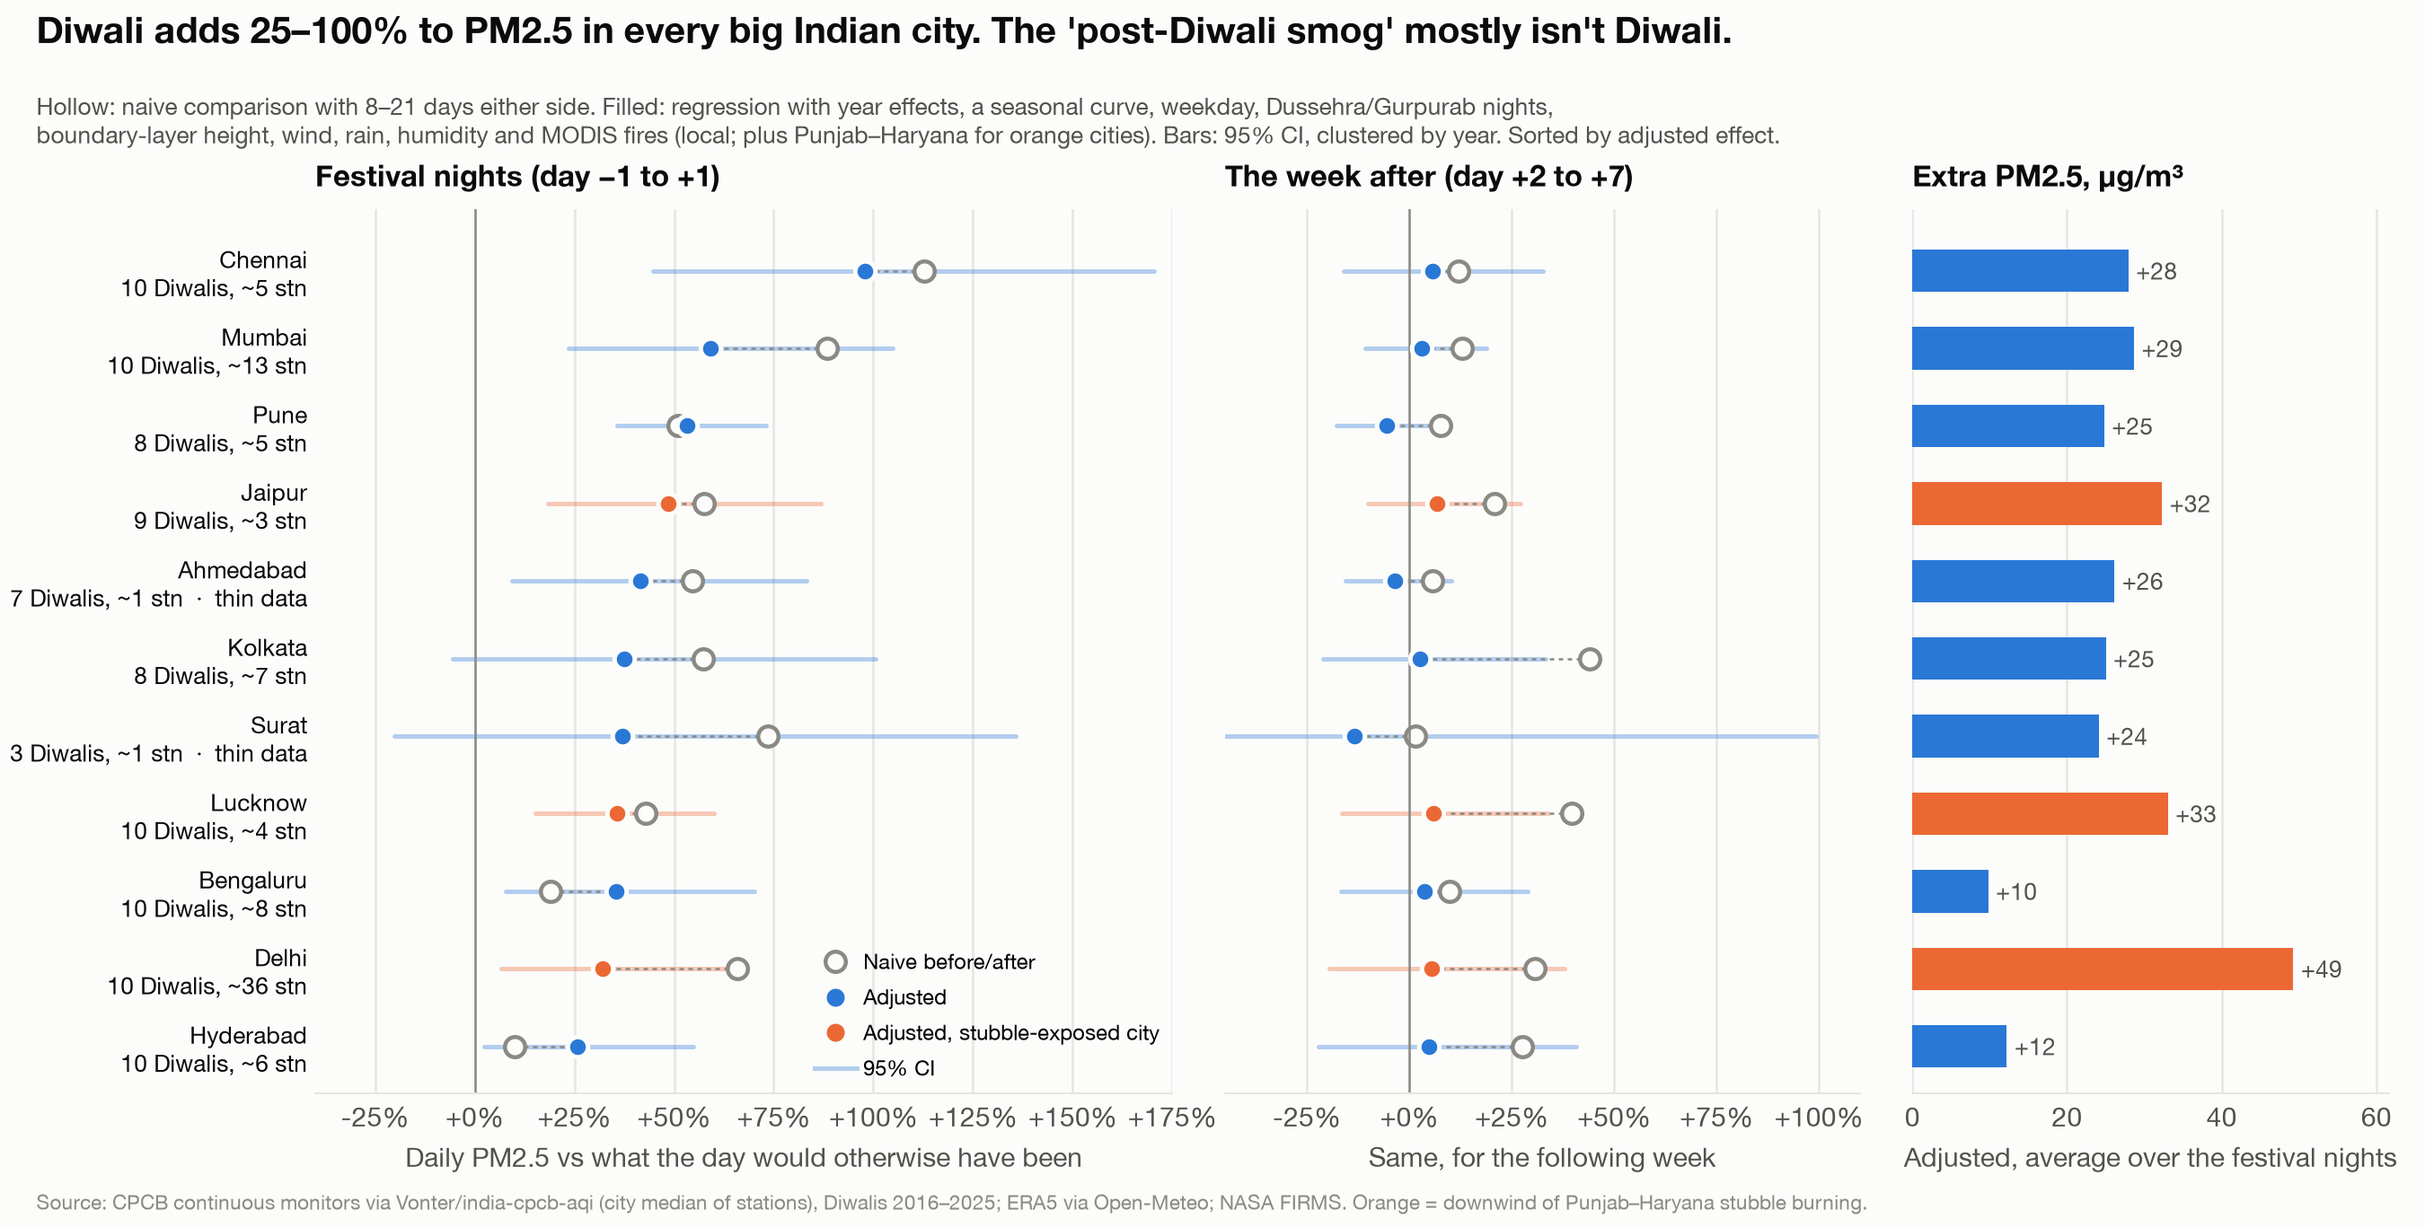
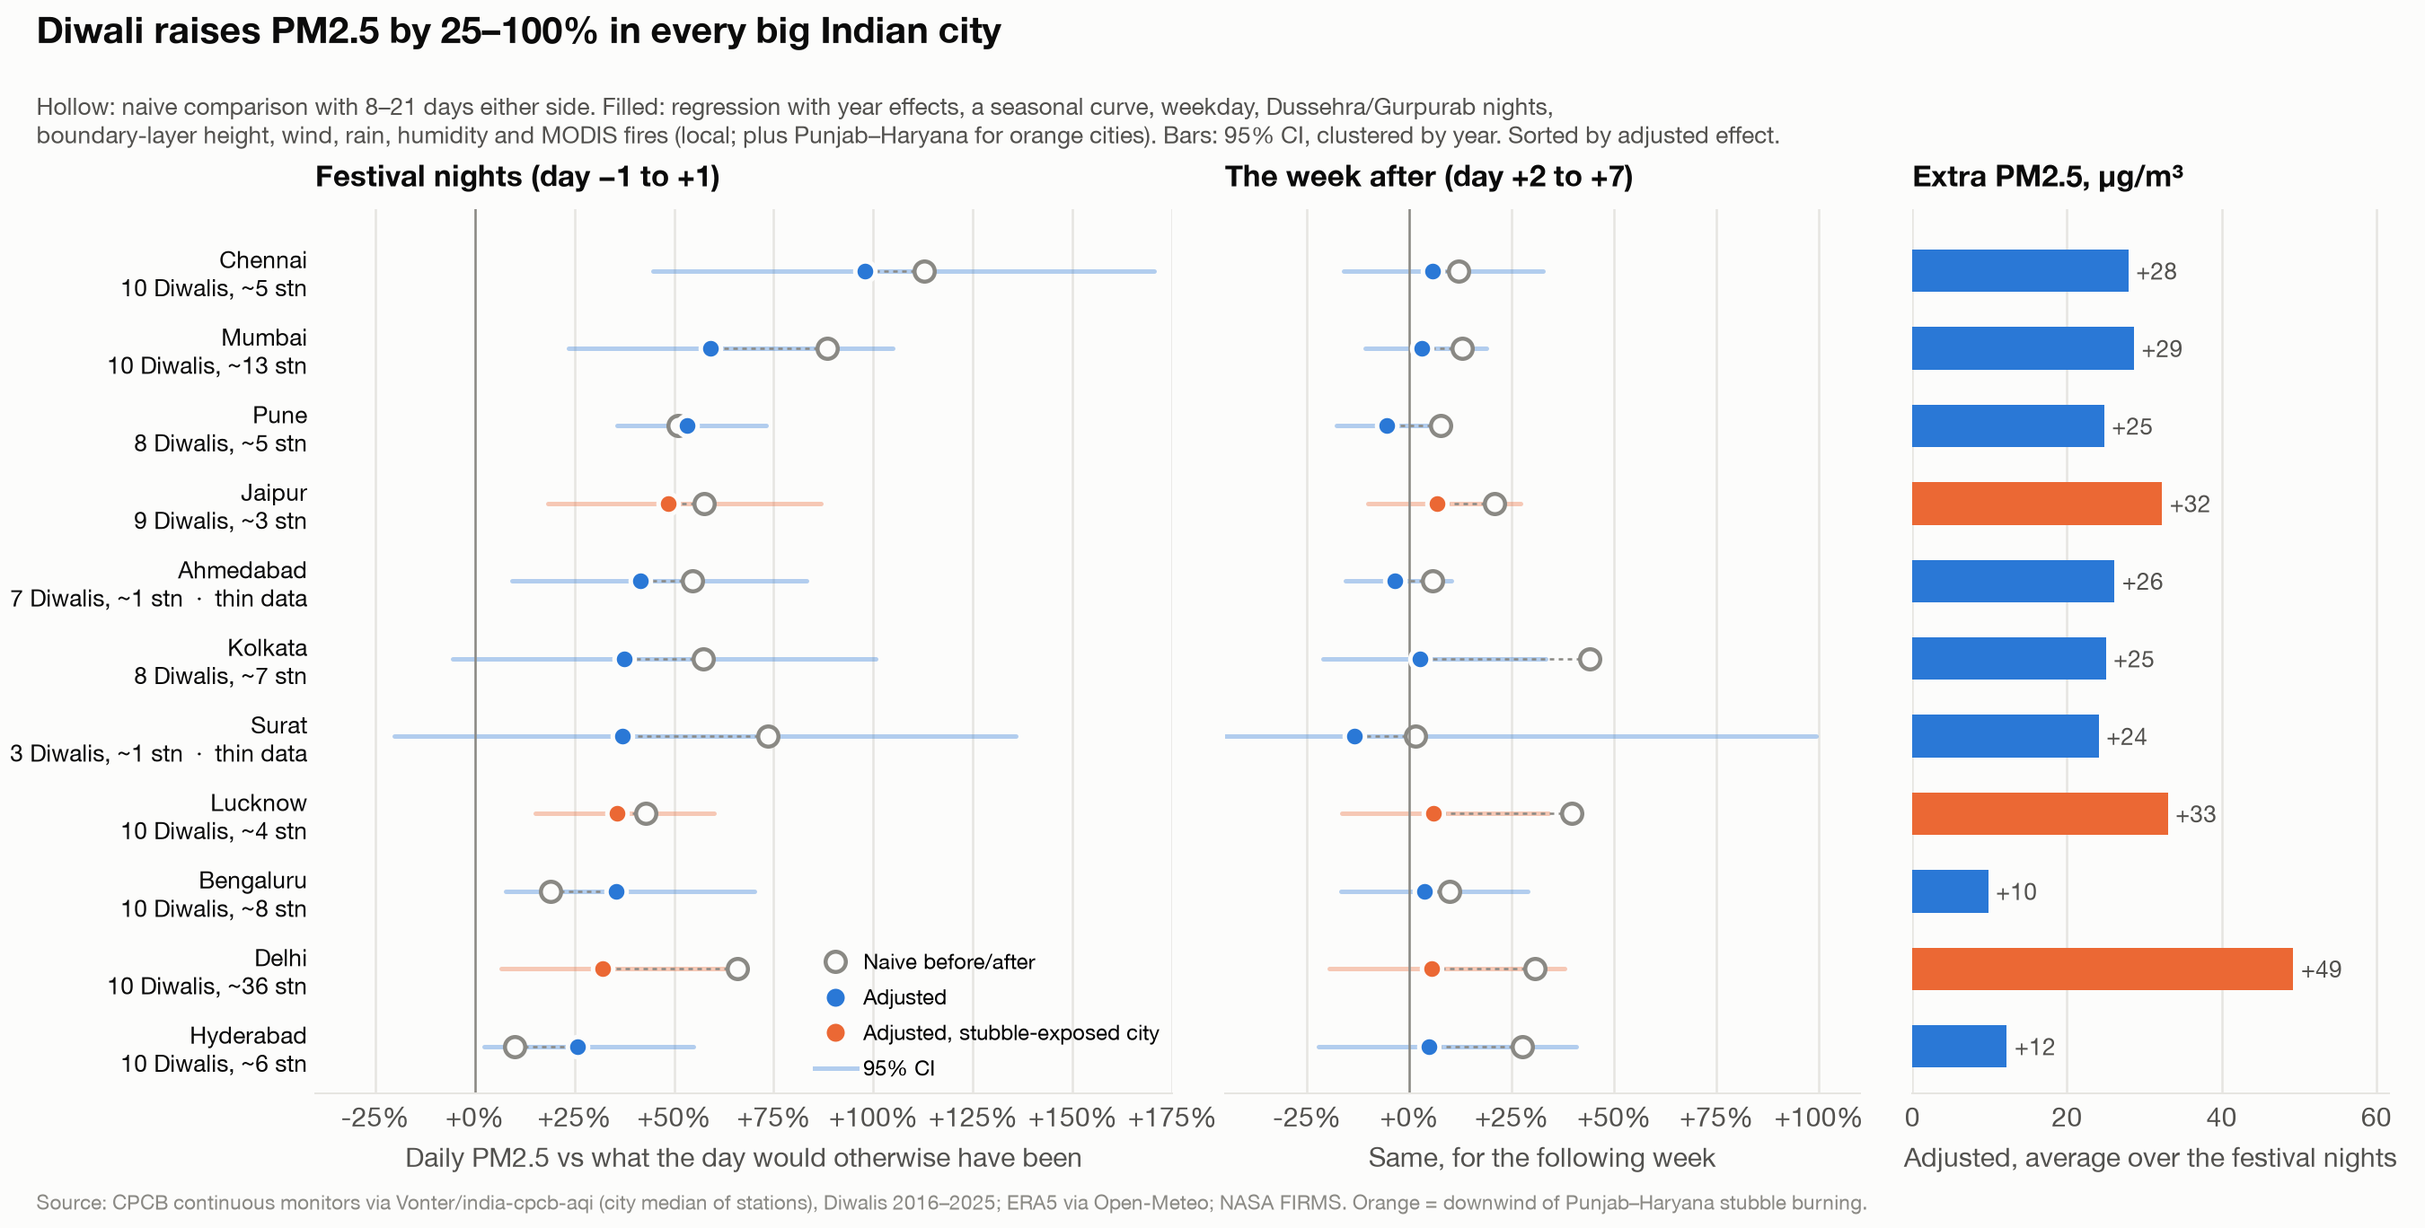
One-point titles; add night-sky version of the headline chart
Claude-Session: https://claude.ai/code/session_01TnczmvyPoPs5tCN1bH2r55

Changed region(s): [[0.0622, 0.0, 0.7156, 0.0614]]

diff --git a/chart_week.py b/chart_week.py
@@ -2,13 +2,16 @@
 
 Left: hourly PM2.5 ÷ normal, Day -3 to Day +4, median of the ten cities (bold) over each city (faint).
 Right: each city's festival-nights effect, adjusted for season, weather and crop fires.
-Palette and type follow dogl.uk (snow / night ink / Himalayan blue / sunset; Young Serif + Instrument Sans).
+Palette and type follow dogl.uk (Young Serif + Instrument Sans). Two themes:
+  snow  -> charts/diwali_week.png        (light: snow / night ink / Himalayan blue / sunset)
+  night -> charts/diwali_week_night.png  (dark: dogl.uk night tokens, glowing sunset line)
+Colours validated with the dataviz palette checker for each surface.
 """
+import matplotlib.patheffects as pe
 import matplotlib.pyplot as plt
 import numpy as np
 import pandas as pd
 from matplotlib import font_manager as fm
-from matplotlib.patches import FancyBboxPatch
 
 from config import CHARTS, DATA, ROOT
 
@@ -20,116 +23,125 @@ for f in FONTS.glob("*.ttf"):
     fm.fontManager.addfont(str(f))
 plt.rcParams.update({"font.family": "Instrument Sans", "font.size": 14})
 
-BG, INK, MUTED, LINE = "#F6F9FC", "#12233B", "#5A6B83", "#DCE5F0"
-BLUE, BLUE_SOFT, CITY = "#2F5E9E", "#E6EEF8", "#C2D3EA"
-SUNSET, SUNSET_DEEP, GOLD = "#F08A4B", "#D9622B", "#E9B45E"
+THEMES = {
+    "snow": dict(out="diwali_week.png", bg="#F6F9FC", ink="#12233B", muted="#5A6B83", grid="#DCE5F0",
+                 city="#C2D3EA", bar="#2F5E9E", line="#D9622B", fill="#F08A4B", fill_a=0.22, big="#D9622B",
+                 band="#E9B45E", band_a=(0.14, 0.30), band_ink="#8A5B12", mark="#2F5E9E", glow=False),
+    "night": dict(out="diwali_week_night.png", bg="#111F38", ink="#E9F0F9", muted="#A3B5CE", grid="#1F3354",
+                  city="#36588A", bar="#5A8ACB", line="#DC6E2E", fill="#F4A06A", fill_a=0.16, big="#F4A06A",
+                  band="#F4A06A", band_a=(0.06, 0.12), band_ink="#F0CD8C", mark="#A9C8EE", glow=True),
+}
 
 TEN = ["Delhi", "Mumbai", "Kolkata", "Bengaluru", "Chennai", "Hyderabad", "Ahmedabad", "Pune", "Surat", "Jaipur"]
-hc = pd.read_csv(DATA / "tempo_hourly.csv", index_col="t")
-hc = hc.loc[-72:119]
+hc = pd.read_csv(DATA / "tempo_hourly.csv", index_col="t").loc[-72:119]
 S = pd.read_csv(DATA / "summary.csv").set_index("city").loc[TEN].sort_values("adj_fw_pct")
-
-fig = plt.figure(figsize=(16, 9), facecolor=BG)
-ax = fig.add_axes([0.055, 0.15, 0.6, 0.62], facecolor=BG)
-bx = fig.add_axes([0.745, 0.15, 0.225, 0.62], facecolor=BG)
+daily = pd.read_csv(DATA / "tempo_daily.csv", index_col="day")["all"]
+m = hc["all_smooth"]
 YMAX = 6.2
 
-# festival nights (18:00-06:00): day before, Diwali, day after
-for d, lab in [(-1, "Day before"), (0, "Diwali night"), (1, "Night after")]:
-    x0, x1 = 24 * d + 18, 24 * d + 30
-    ax.axvspan(x0, x1, color=GOLD, alpha=0.30 if d == 0 else 0.14, lw=0, zorder=0)
-    ax.text((x0 + x1) / 2, YMAX - 0.12, lab, ha="center", va="top", fontproperties=SANS_B if d == 0 else SANS,
-            fontsize=12.5, color="#8A5B12")
-for x in range(-72, 121, 24):
-    ax.axvline(x, color=LINE, lw=1, zorder=0)
 
-# each city, faint; clip the two that go off the chart and say so
-for c in TEN:
-    s = hc[c].rolling(3, center=True, min_periods=1).mean()
-    ax.plot(s.index, s.clip(upper=YMAX + 1), color=CITY, lw=1.3, zorder=1, solid_capstyle="round")
-    if s.max() > YMAX:
-        tpk = s.idxmax()
-        ax.annotate(f"{c} {s.max():.0f}×", (tpk, YMAX - 0.55), xytext=(9 if c == "Chennai" else -9, 0),
-                    textcoords="offset points", ha="left" if c == "Chennai" else "right", va="center",
-                    fontsize=11.5, color=MUTED, fontproperties=SANS)
+def render(T):
+    fig = plt.figure(figsize=(16, 9), facecolor=T["bg"])
+    ax = fig.add_axes([0.055, 0.15, 0.6, 0.62], facecolor=T["bg"])
+    bx = fig.add_axes([0.745, 0.15, 0.225, 0.62], facecolor=T["bg"])
 
-# the ten-city median
-m = hc["all_smooth"]
-ax.fill_between(m.index, 1, m.values, where=m.values > 1, color=SUNSET, alpha=0.22, lw=0, zorder=2)
-ax.plot(m.index, m.values, color=SUNSET_DEEP, lw=4.2, zorder=4, solid_capstyle="round", solid_joinstyle="round")
-ax.axhline(1, color=MUTED, lw=1.2, zorder=3)
-ax.text(-71, 0.9, "normal", fontsize=12, color=MUTED, va="top", fontproperties=SANS)
+    # festival nights (18:00-06:00): day before, Diwali, day after
+    for d, lab in [(-1, "Day before"), (0, "Diwali night"), (1, "Night after")]:
+        x0, x1 = 24 * d + 18, 24 * d + 30
+        ax.axvspan(x0, x1, color=T["band"], alpha=T["band_a"][d == 0], lw=0, zorder=0)
+        ax.text((x0 + x1) / 2, YMAX - 0.12, lab, ha="center", va="top", fontproperties=SANS_B if d == 0 else SANS,
+                fontsize=12.5, color=T["band_ink"])
+    for x in range(-72, 121, 24):
+        ax.axvline(x, color=T["grid"], lw=1, zorder=0)
 
-pk_t, pk = m.idxmax(), m.max()
-ax.plot(pk_t, pk, "o", ms=13, color=SUNSET_DEEP, mec=BG, mew=3, zorder=5)
-ax.annotate(f"{pk:.0f}×", (pk_t, pk), xytext=(-22, 8), textcoords="offset points", ha="right", va="center",
-            fontproperties=SERIF, fontsize=44, color=SUNSET_DEEP, zorder=6)
-ax.annotate("normal, at\nmidnight", (pk_t, pk), xytext=(-24, -38), textcoords="offset points", ha="right",
-            va="center", fontsize=13, color=INK, fontproperties=SANS, linespacing=1.15)
+    # each city, faint; clip the two that go off the chart and say so
+    for c in TEN:
+        s = hc[c].rolling(3, center=True, min_periods=1).mean()
+        ax.plot(s.index, s.clip(upper=YMAX + 1), color=T["city"], lw=1.3, zorder=1, solid_capstyle="round")
+        if s.max() > YMAX:
+            ax.annotate(f"{c} {s.max():.0f}×", (s.idxmax(), YMAX - 0.55), xytext=(9 if c == "Chennai" else -9, 0),
+                        textcoords="offset points", ha="left" if c == "Chennai" else "right", va="center",
+                        fontsize=11.5, color=T["muted"], fontproperties=SANS)
+
+    # the ten-city median
+    ax.fill_between(m.index, 1, m.values, where=m.values > 1, color=T["fill"], alpha=T["fill_a"], lw=0, zorder=2)
+    effects = None
+    if T["glow"]:
+        effects = [pe.Stroke(linewidth=18, foreground=T["fill"], alpha=0.06),
+                   pe.Stroke(linewidth=11, foreground=T["fill"], alpha=0.12),
+                   pe.Stroke(linewidth=7, foreground=T["fill"], alpha=0.25), pe.Normal()]
+    ax.plot(m.index, m.values, color=T["line"], lw=4.2, zorder=4, solid_capstyle="round", solid_joinstyle="round",
+            path_effects=effects)
+    ax.axhline(1, color=T["muted"], lw=1.2, zorder=3)
+    ax.text(-71, 0.9, "normal", fontsize=12, color=T["muted"], va="top", fontproperties=SANS)
+
+    pk_t, pk = m.idxmax(), m.max()
+    ax.plot(pk_t, pk, "o", ms=13, color=T["line"], mec=T["bg"], mew=3, zorder=5)
+    ax.annotate(f"{pk:.0f}×", (pk_t, pk), xytext=(-22, 8), textcoords="offset points", ha="right", va="center",
+                fontproperties=SERIF, fontsize=44, color=T["big"], zorder=6)
+    ax.annotate("normal, at\nmidnight", (pk_t, pk), xytext=(-24, -38), textcoords="offset points", ha="right",
+                va="center", fontsize=13, color=T["ink"], fontproperties=SANS, linespacing=1.15)
+
+    def callout(t, text, dx, dy, ha="center", va="bottom"):
+        y = m.loc[t]
+        ax.plot(t, y, "o", ms=8, color=T["line"], mec=T["bg"], mew=2, zorder=5)
+        ax.annotate(text, (t, y), xytext=(dx, dy), textcoords="offset points", ha=ha, va=va, fontsize=13,
+                    color=T["ink"], fontproperties=SANS, linespacing=1.15,
+                    arrowprops=dict(arrowstyle="-", color=T["muted"], lw=0.9, shrinkA=3, shrinkB=5))
+
+    t_before = m.loc[-24:0].idxmax()
+    callout(t_before, f"Builds the evening\nbefore: {m.loc[t_before]:.1f}×", -10, 58, ha="right")
+    t_echo = m.loc[36:60].idxmax()
+    callout(t_echo, f"A second night:\n{m.loc[t_echo]:.1f}×", 16, 58, ha="left")
+    after = m.loc[pk_t:]
+    callout(after[after <= 1.25].index.min(), "Mostly clear\nby morning", 14, -26, ha="left", va="top")
+    ax.text(101, 1.75, f"Days +3 and +4:\n{daily.loc[3]:.1f}× on average,\nabout normal", ha="center",
+            va="bottom", fontsize=13, color=T["ink"], fontproperties=SANS, linespacing=1.15)
+
+    ax.set_xlim(-72, 120)
+    ax.set_ylim(0, YMAX)
+    ax.set_xticks(range(-60, 120, 24))
+    ax.set_xticklabels(["Day −3", "Day −2", "Day −1", "Diwali", "Day +1", "Day +2", "Day +3", "Day +4"])
+    for t in ax.get_xticklabels():
+        t.set_fontproperties(SANS_B if t.get_text() == "Diwali" else SANS)
+        t.set_fontsize(14)
+        t.set_color(T["ink"] if t.get_text() == "Diwali" else T["muted"])
+    ax.set_yticks([1, 2, 3, 4, 5, 6])
+    ax.set_yticklabels(["1×", "2×", "3×", "4×", "5×", "6×"], fontsize=13, color=T["muted"])
+    ax.grid(axis="y", color=T["grid"], lw=1)
+    ax.set_axisbelow(True)
+    for s in ax.spines.values():
+        s.set_visible(False)
+    ax.tick_params(length=0, pad=8)
+    ax.set_title("Hourly PM2.5 ÷ the same hour on a normal day", loc="left", fontsize=14, color=T["muted"],
+                 fontproperties=SANS, pad=12)
+
+    # right: city ranking, adjusted
+    bx.barh(np.arange(len(S)), S.adj_fw_pct, color=T["bar"], height=0.62, zorder=2)
+    for i, (c, r) in enumerate(S.iterrows()):
+        bx.text(r.adj_fw_pct + 3, i, f"+{r.adj_fw_pct:.0f}%", va="center", fontsize=13, color=T["ink"],
+                fontproperties=SANS_B)
+        bx.text(-4, i, c + ("*" if c == "Surat" else ""), va="center", ha="right", fontsize=14, color=T["ink"],
+                fontproperties=SANS)
+    bx.set_xlim(0, S.adj_fw_pct.max() * 1.28)
+    bx.set_ylim(-0.6, len(S) - 0.4)
+    bx.axis("off")
+    bx.set_title("Festival nights vs a normal night,\nafter removing season, weather\nand crop-fire smoke",
+                 loc="left", fontsize=14, color=T["muted"], fontproperties=SANS, pad=12, x=-0.36, linespacing=1.2)
+
+    fig.text(0.055, 0.915, "Diwali night makes India's city air 4× dirtier",
+             fontproperties=SERIF, fontsize=34, color=T["ink"], va="baseline")
+    fig.text(0.055, 0.868, "PM2.5 through Diwali week in India's 10 biggest cities, 2016–2025. "
+             "Orange: the typical city. Faint lines: each city.",
+             fontproperties=SANS, fontsize=16, color=T["muted"], va="baseline")
+    fig.text(0.055, 0.045, "Data: CPCB monitors (via Vonter/india-cpcb-aqi), ERA5, NASA FIRMS.  "
+             "*Surat: one monitor, three Diwalis.  Method and code: github.com/dogluk/diwali-aqi",
+             fontproperties=SANS, fontsize=12, color=T["muted"])
+    fig.text(0.97, 0.045, "dogl.uk", fontproperties=SERIF, fontsize=16, color=T["mark"], ha="right")
+    fig.savefig(CHARTS / T["out"], dpi=170, facecolor=T["bg"])
+    plt.close(fig)
+    print("written", CHARTS / T["out"])
 
 
-def callout(t, text, dx, dy, ha="center"):
-    y = m.loc[t]
-    ax.plot(t, y, "o", ms=8, color=SUNSET_DEEP, mec=BG, mew=2, zorder=5)
-    ax.annotate(text, (t, y), xytext=(dx, dy), textcoords="offset points", ha=ha, va="bottom", fontsize=13,
-                color=INK, fontproperties=SANS, linespacing=1.15,
-                arrowprops=dict(arrowstyle="-", color=MUTED, lw=0.9, shrinkA=3, shrinkB=5))
-
-
-t_before = m.loc[-24:0].idxmax()
-callout(t_before, f"Builds the evening\nbefore: {m.loc[t_before]:.1f}×", -10, 58, ha="right")
-t_echo = m.loc[36:60].idxmax()
-callout(t_echo, f"A second night:\n{m.loc[t_echo]:.1f}×", 16, 58, ha="left")
-clear = m.loc[pk_t:]
-t_clear = clear[clear <= 1.25].index.min()
-y_clear = m.loc[t_clear]
-ax.plot(t_clear, y_clear, "o", ms=8, color=SUNSET_DEEP, mec=BG, mew=2, zorder=5)
-ax.annotate("Mostly clear\nby morning", (t_clear, y_clear), xytext=(14, -26), textcoords="offset points",
-            ha="left", va="top", fontsize=13, color=INK, fontproperties=SANS, linespacing=1.15,
-            arrowprops=dict(arrowstyle="-", color=MUTED, lw=0.9, shrinkA=3, shrinkB=5))
-daily = pd.read_csv(DATA / "tempo_daily.csv", index_col="day")["all"]
-ax.text(101, 1.75, f"Days +3 and +4:\n{daily.loc[3]:.1f}× on average,\nabout normal", ha="center", va="bottom",
-        fontsize=13, color=INK, fontproperties=SANS, linespacing=1.15)
-
-ax.set_xlim(-72, 120)
-ax.set_ylim(0, YMAX)
-ax.set_xticks(range(-60, 120, 24))
-ax.set_xticklabels(["Day −3", "Day −2", "Day −1", "Diwali", "Day +1", "Day +2", "Day +3", "Day +4"])
-for t in ax.get_xticklabels():
-    t.set_fontproperties(SANS_B if t.get_text() == "Diwali" else SANS)
-    t.set_fontsize(14)
-    t.set_color(INK if t.get_text() == "Diwali" else MUTED)
-ax.set_yticks([1, 2, 3, 4, 5, 6])
-ax.set_yticklabels(["1×", "2×", "3×", "4×", "5×", "6×"], fontsize=13, color=MUTED)
-ax.grid(axis="y", color=LINE, lw=1)
-ax.set_axisbelow(True)
-for s in ax.spines.values():
-    s.set_visible(False)
-ax.tick_params(length=0, pad=8)
-ax.set_title("Hourly PM2.5 ÷ the same hour on a normal day", loc="left", fontsize=14, color=MUTED,
-             fontproperties=SANS, pad=12)
-
-# right: city ranking, adjusted
-y = np.arange(len(S))
-bx.barh(y, S.adj_fw_pct, color=BLUE, height=0.62, zorder=2)
-for i, (c, r) in enumerate(S.iterrows()):
-    bx.text(r.adj_fw_pct + 3, i, f"+{r.adj_fw_pct:.0f}%", va="center", fontsize=13, color=INK, fontproperties=SANS_B)
-    bx.text(-4, i, c + ("*" if c == "Surat" else ""), va="center", ha="right", fontsize=14, color=INK,
-            fontproperties=SANS)
-bx.set_xlim(0, S.adj_fw_pct.max() * 1.28)
-bx.set_ylim(-0.6, len(S) - 0.4)
-bx.axis("off")
-bx.set_title("Festival nights vs a normal night,\nafter removing season, weather\nand crop-fire smoke",
-             loc="left", fontsize=14, color=MUTED, fontproperties=SANS, pad=12, x=-0.36, linespacing=1.2)
-
-fig.text(0.055, 0.915, "Diwali night: city air 4× dirtier, mostly gone by morning",
-         fontproperties=SERIF, fontsize=32, color=INK, va="baseline")
-fig.text(0.055, 0.868, "PM2.5 through Diwali week in India's 10 biggest cities, 2016–2025. "
-         "Orange: the typical city. Faint lines: each city.",
-         fontproperties=SANS, fontsize=16, color=MUTED, va="baseline")
-fig.text(0.055, 0.045, "Data: CPCB monitors (via Vonter/india-cpcb-aqi), ERA5, NASA FIRMS.  "
-         "*Surat: one monitor, three Diwalis.  Method and code: github.com/dogluk/diwali-aqi",
-         fontproperties=SANS, fontsize=12, color=MUTED)
-fig.text(0.97, 0.045, "dogl.uk", fontproperties=SERIF, fontsize=16, color=BLUE, ha="right")
-fig.savefig(CHARTS / "diwali_week.png", dpi=170, facecolor=BG)
-print("written", CHARTS / "diwali_week.png")
+for theme in THEMES.values():
+    render(theme)

diff --git a/charts_metros.py b/charts_metros.py
@@ -75,7 +75,7 @@ for t, c in zip(axes[0].get_yticklabels(), S.col):
     t.set_color(INK)
 axes[0].set_ylim(-0.6, len(S) - 0.2)
 
-fig.text(0.015, 0.965, "Diwali adds 25–100% to PM2.5 in every big Indian city. The 'post-Diwali smog' mostly isn't Diwali.",
+fig.text(0.015, 0.965, "Diwali raises PM2.5 by 25–100% in every big Indian city",
          fontsize=16.5, fontweight="bold", color=INK)
 fig.text(0.015, 0.925,
          "Hollow: naive comparison with 8–21 days either side. Filled: regression with year effects, a seasonal curve, weekday, "

diff --git a/README.md b/README.md
@@ -131,7 +131,7 @@ python pull_weather.py   # -> data/weather_era5.parquet
 python fires.py          # -> data/fires_daily.parquet
 python analyze.py        # -> data/nightday.parquet, effects.csv, summary.csv
 python tempo.py          # -> data/tempo_hourly.csv, tempo_daily.csv
-python chart_week.py     # -> charts/diwali_week.png (the headline chart)
+python chart_week.py     # -> charts/diwali_week.png + diwali_week_night.png (headline chart, two themes)
 python charts_metros.py  # -> charts/chart_metros_summary.png, chart_metros_hourly.png
 python charts.py         # -> Bengaluru vs Delhi deep-dive charts
 python robustness.py     # hangover, rain and placebo checks for Bengaluru and Delhi
@@ -142,6 +142,7 @@ small enough to be included, so the analysis and chart steps run without the 4 G
 
 ## More charts
 
+- `charts/diwali_week_night.png`: the headline chart on a night-sky background
 - `charts/chart_metros_summary.png`: naive vs adjusted, festival nights and the week after, per city
 - `charts/chart_metros_hourly.png`: each city's hourly curve through Diwali
 - `charts/chart_hero.png`, `chart_prepost.png`, `chart_confounders.png`: the Bengaluru vs Delhi
